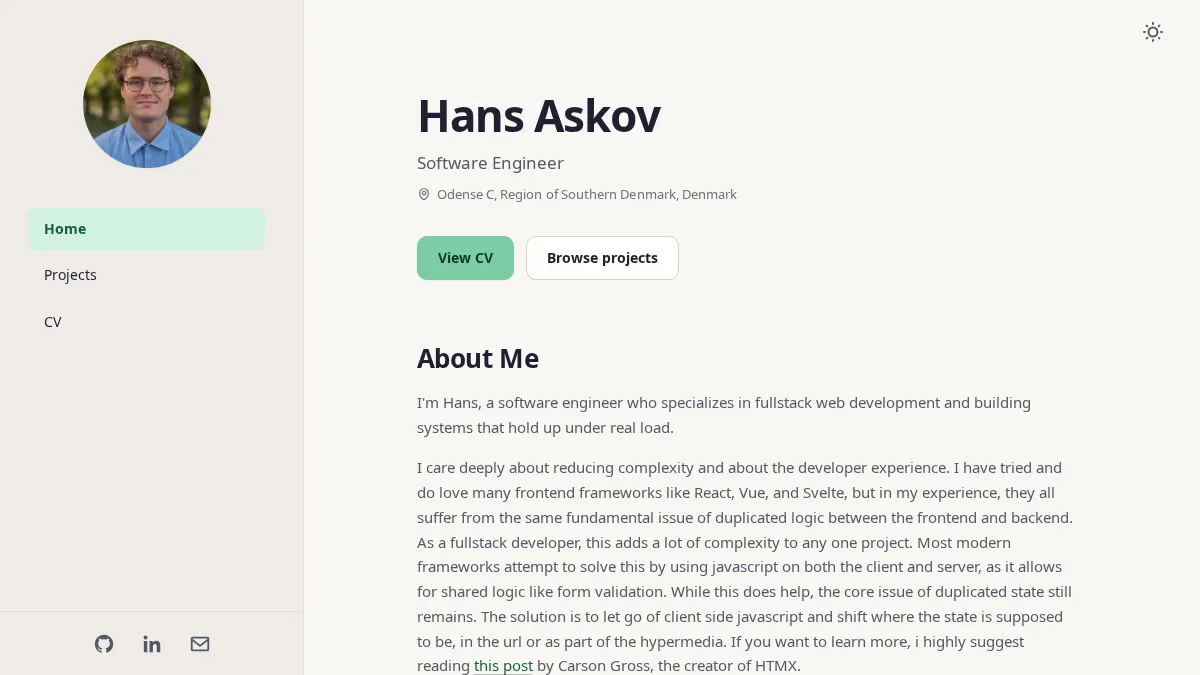
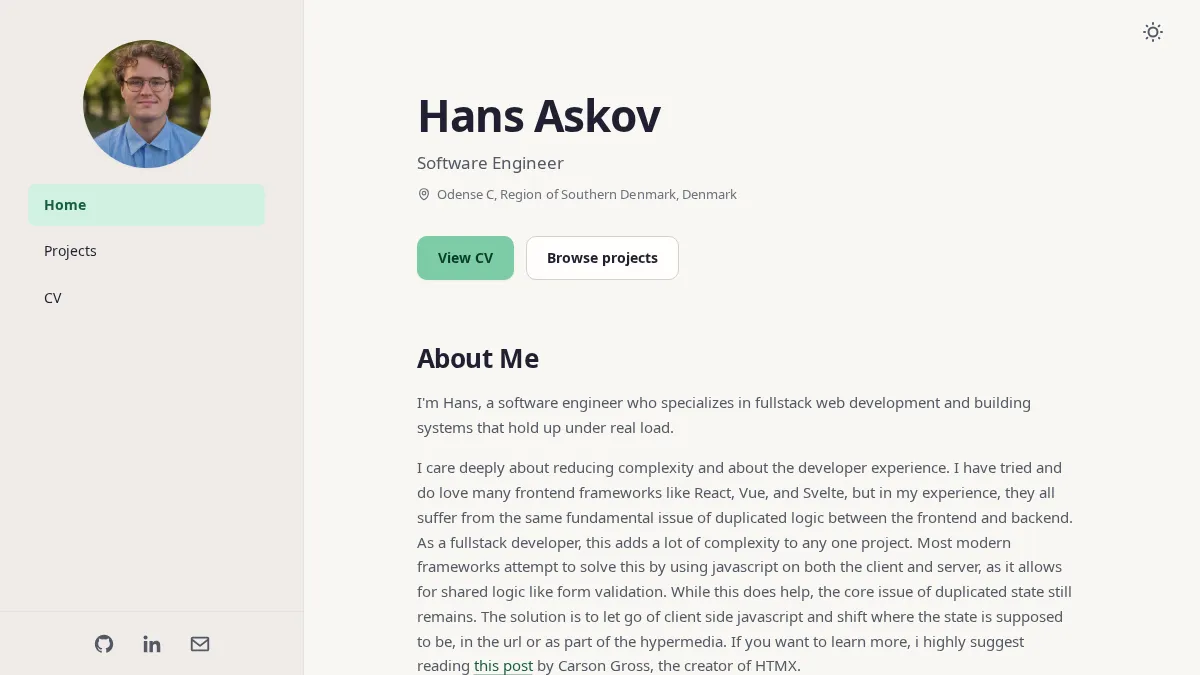
Add bottom drawer on small screens.

Changed region(s): [[0.0, 0.2489, 0.2467, 0.4356]]

diff --git a/src/styles.css b/src/styles.css
@@ -356,61 +356,21 @@
     transform: none;
   }
 
-  /* Navigation drawer (pure CSS, no JS) -------------------------------------
-     < lg: fixed off-canvas panel + scrim, toggled by #site-nav checkbox
-     ≥ lg: static sticky column                                            */
+  /* Sidebar: hidden < lg (bottom drawer covers navigation), sticky column ≥ lg */
   .nav-panel {
-    position: fixed;
-    inset-block: 0;
-    left: 0;
-    z-index: 50;
-    width: min(var(--ds-sidebar-width), 86vw);
-    background: var(--ds-color-bg-subtle);
-    border-right: 1px solid var(--ds-color-border-subtle);
-    transform: translateX(-102%);
-    visibility: hidden;
-    transition:
-      transform 280ms var(--pr-ease-out),
-      visibility 0s 280ms;
+    display: none;
   }
-  :has(#site-nav:checked) .nav-panel {
-    transform: none;
-    visibility: visible;
-    box-shadow: var(--ds-shadow-panel);
-    transition-delay: 0s, 0s;
-  }
-  body:has(#site-nav:checked) {
-    overflow: hidden;
-  }
-
-  .nav-scrim {
-    position: fixed;
-    inset: 0;
-    z-index: 40;
-    background: var(--ds-color-scrim);
-    opacity: 0;
-    pointer-events: none;
-    transition: opacity 200ms ease;
-  }
-  :has(#site-nav:checked) .nav-scrim {
-    opacity: 1;
-    pointer-events: auto;
-  }
-
   @media (min-width: 64rem) {
     .nav-panel {
+      display: flex;
+      flex-direction: column;
       position: sticky;
       top: 0;
       height: 100dvh;
       width: var(--ds-sidebar-width);
       flex-shrink: 0;
-      transform: none;
-      visibility: visible;
-      box-shadow: none;
-      transition: none;
-    }
-    .nav-scrim {
-      display: none;
+      background: var(--ds-color-bg-subtle);
+      border-right: 1px solid var(--ds-color-border-subtle);
     }
   }
 }
@@ -474,10 +434,10 @@
   }
 
   /* sr-only inputs hide their own ring — put it on the visible control
-     instead: the theme toggle (input inside label) and the nav drawer
-     hamburger (label bound by for="#site-nav") */
+     instead: the theme toggle (input inside label) and the hamburger that
+     opens the bottom drawer (label bound by for="#bottom-drawer") */
   label:has(> input:focus-visible),
-  body:has(#site-nav:focus-visible) header label[for="site-nav"] {
+  body:has(.drawer-toggle:focus-visible) header label[for="bottom-drawer"] {
     outline: 2px solid var(--ds-color-focus);
     outline-offset: 2px;
   }

diff --git a/src/i18n.ts b/src/i18n.ts
@@ -7,6 +7,7 @@ export type Translation = {
     home: string;
     projects: string;
     cv: string;
+    menu: string;
   };
   sections: {
     contact: string;
@@ -35,6 +36,7 @@ const en: Translation = {
     home: "Home",
     projects: "Projects",
     cv: "CV",
+    menu: "Menu",
   },
   sections: {
     contact: "Contact",
@@ -63,6 +65,7 @@ const da: Translation = {
     home: "Forside",
     projects: "Projekter",
     cv: "CV",
+    menu: "Menu",
   },
   sections: {
     contact: "Kontakt",

diff --git a/README.md b/README.md
@@ -26,6 +26,16 @@ To build the projcet, including generating the pdf files, simply run pnpm build.
 pnpm build
 ```
 
+To preview the build locally:
+```bash
+pnpm preview
+```
+
+To stop a preview server running in the background:
+```bash
+pnpm preview stop
+```
+
 ## Tech Stack
 
 - [Astro](https://astro.build)
